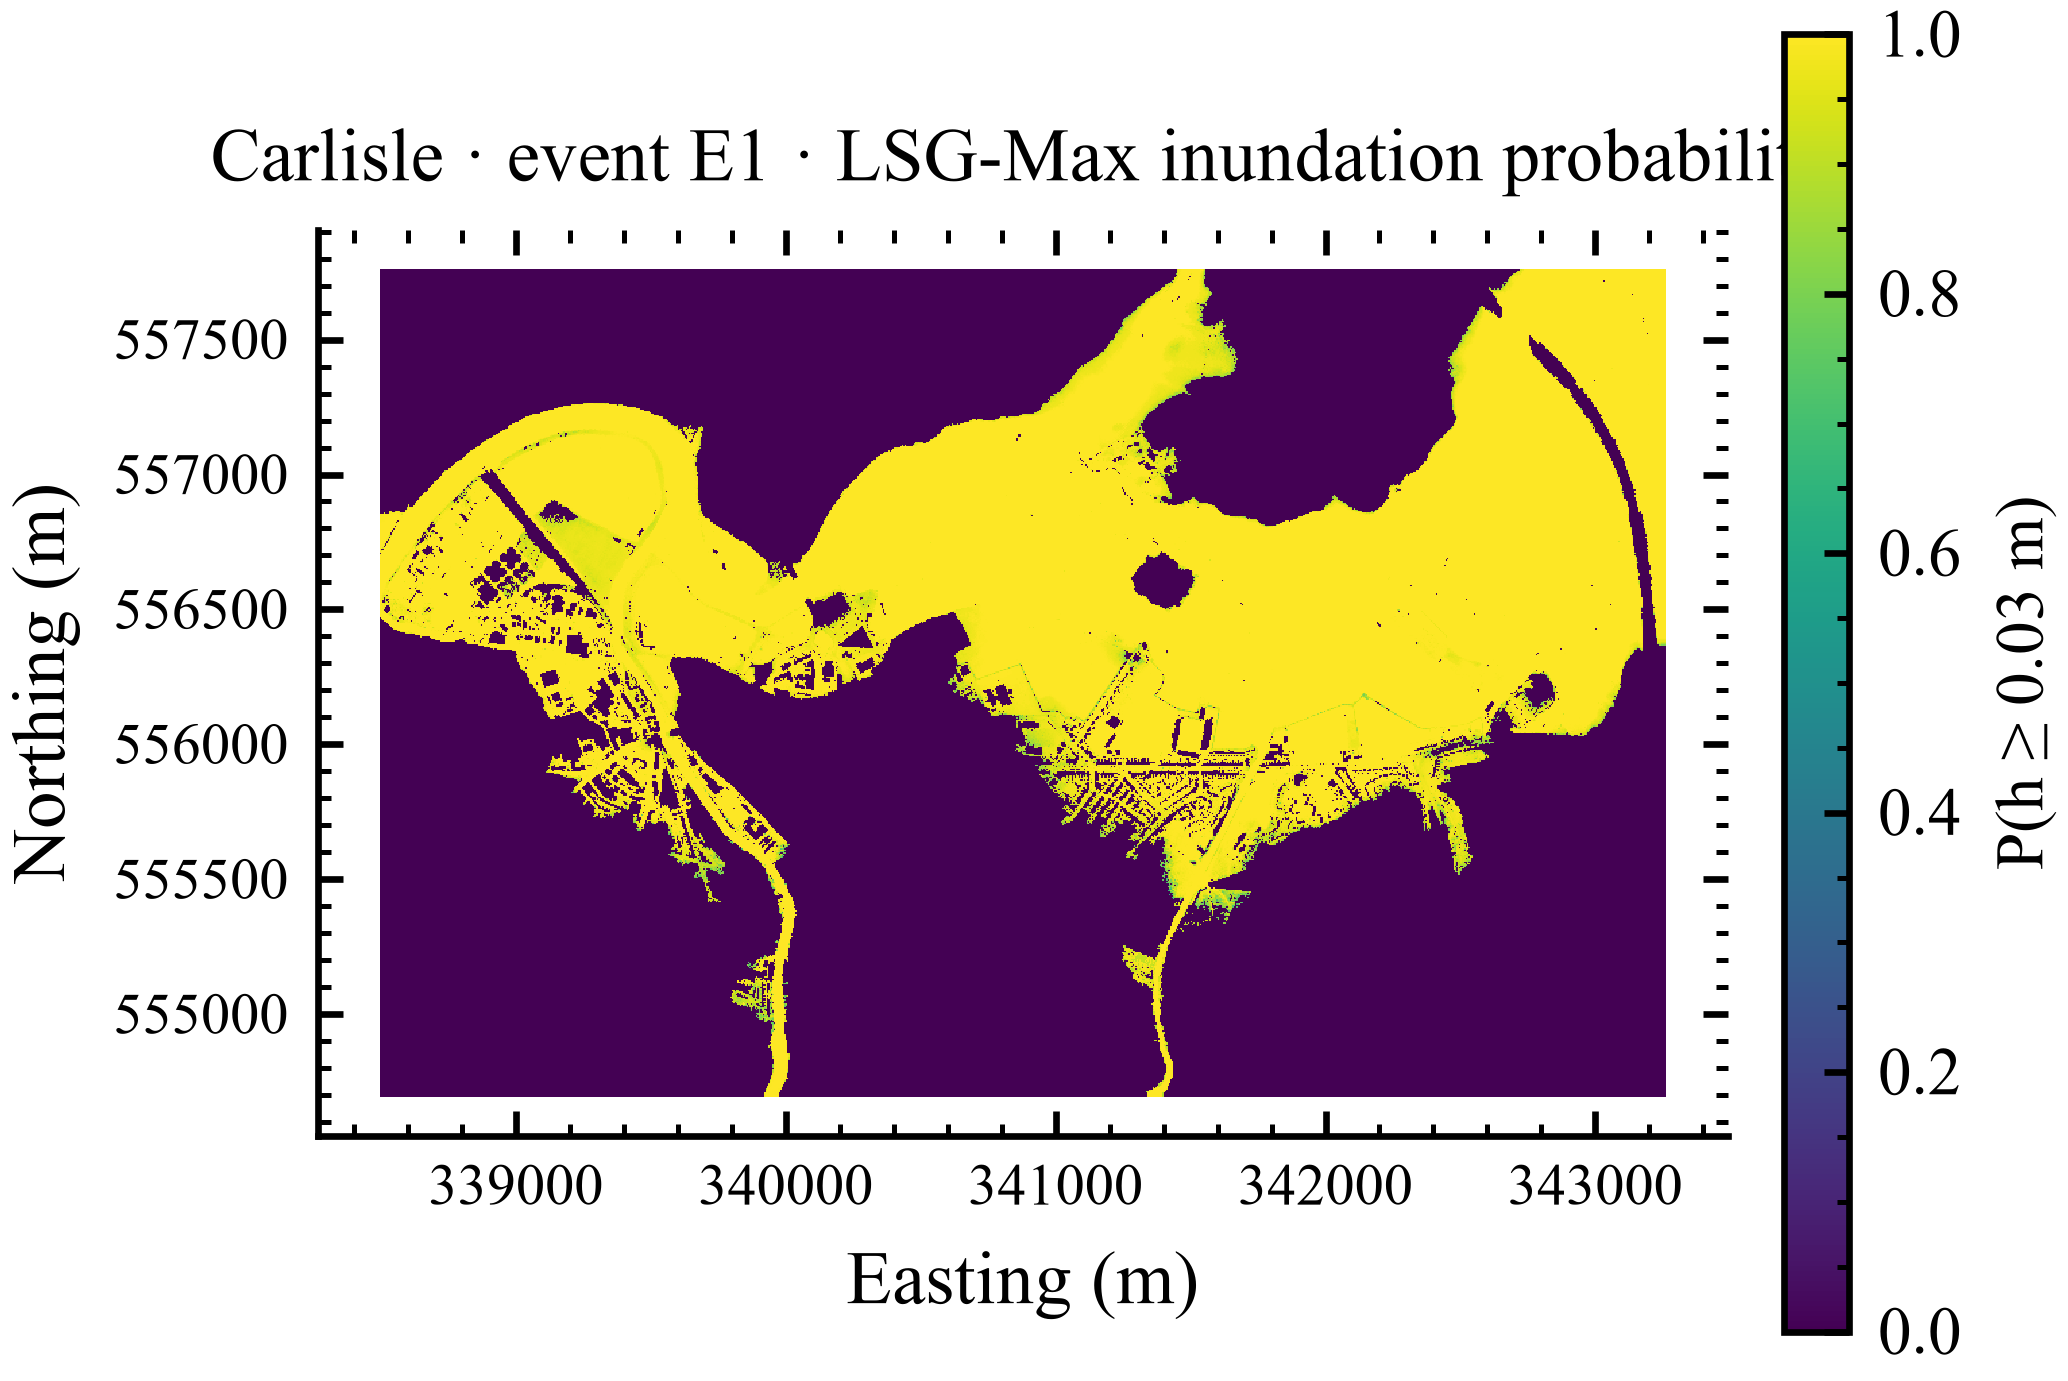
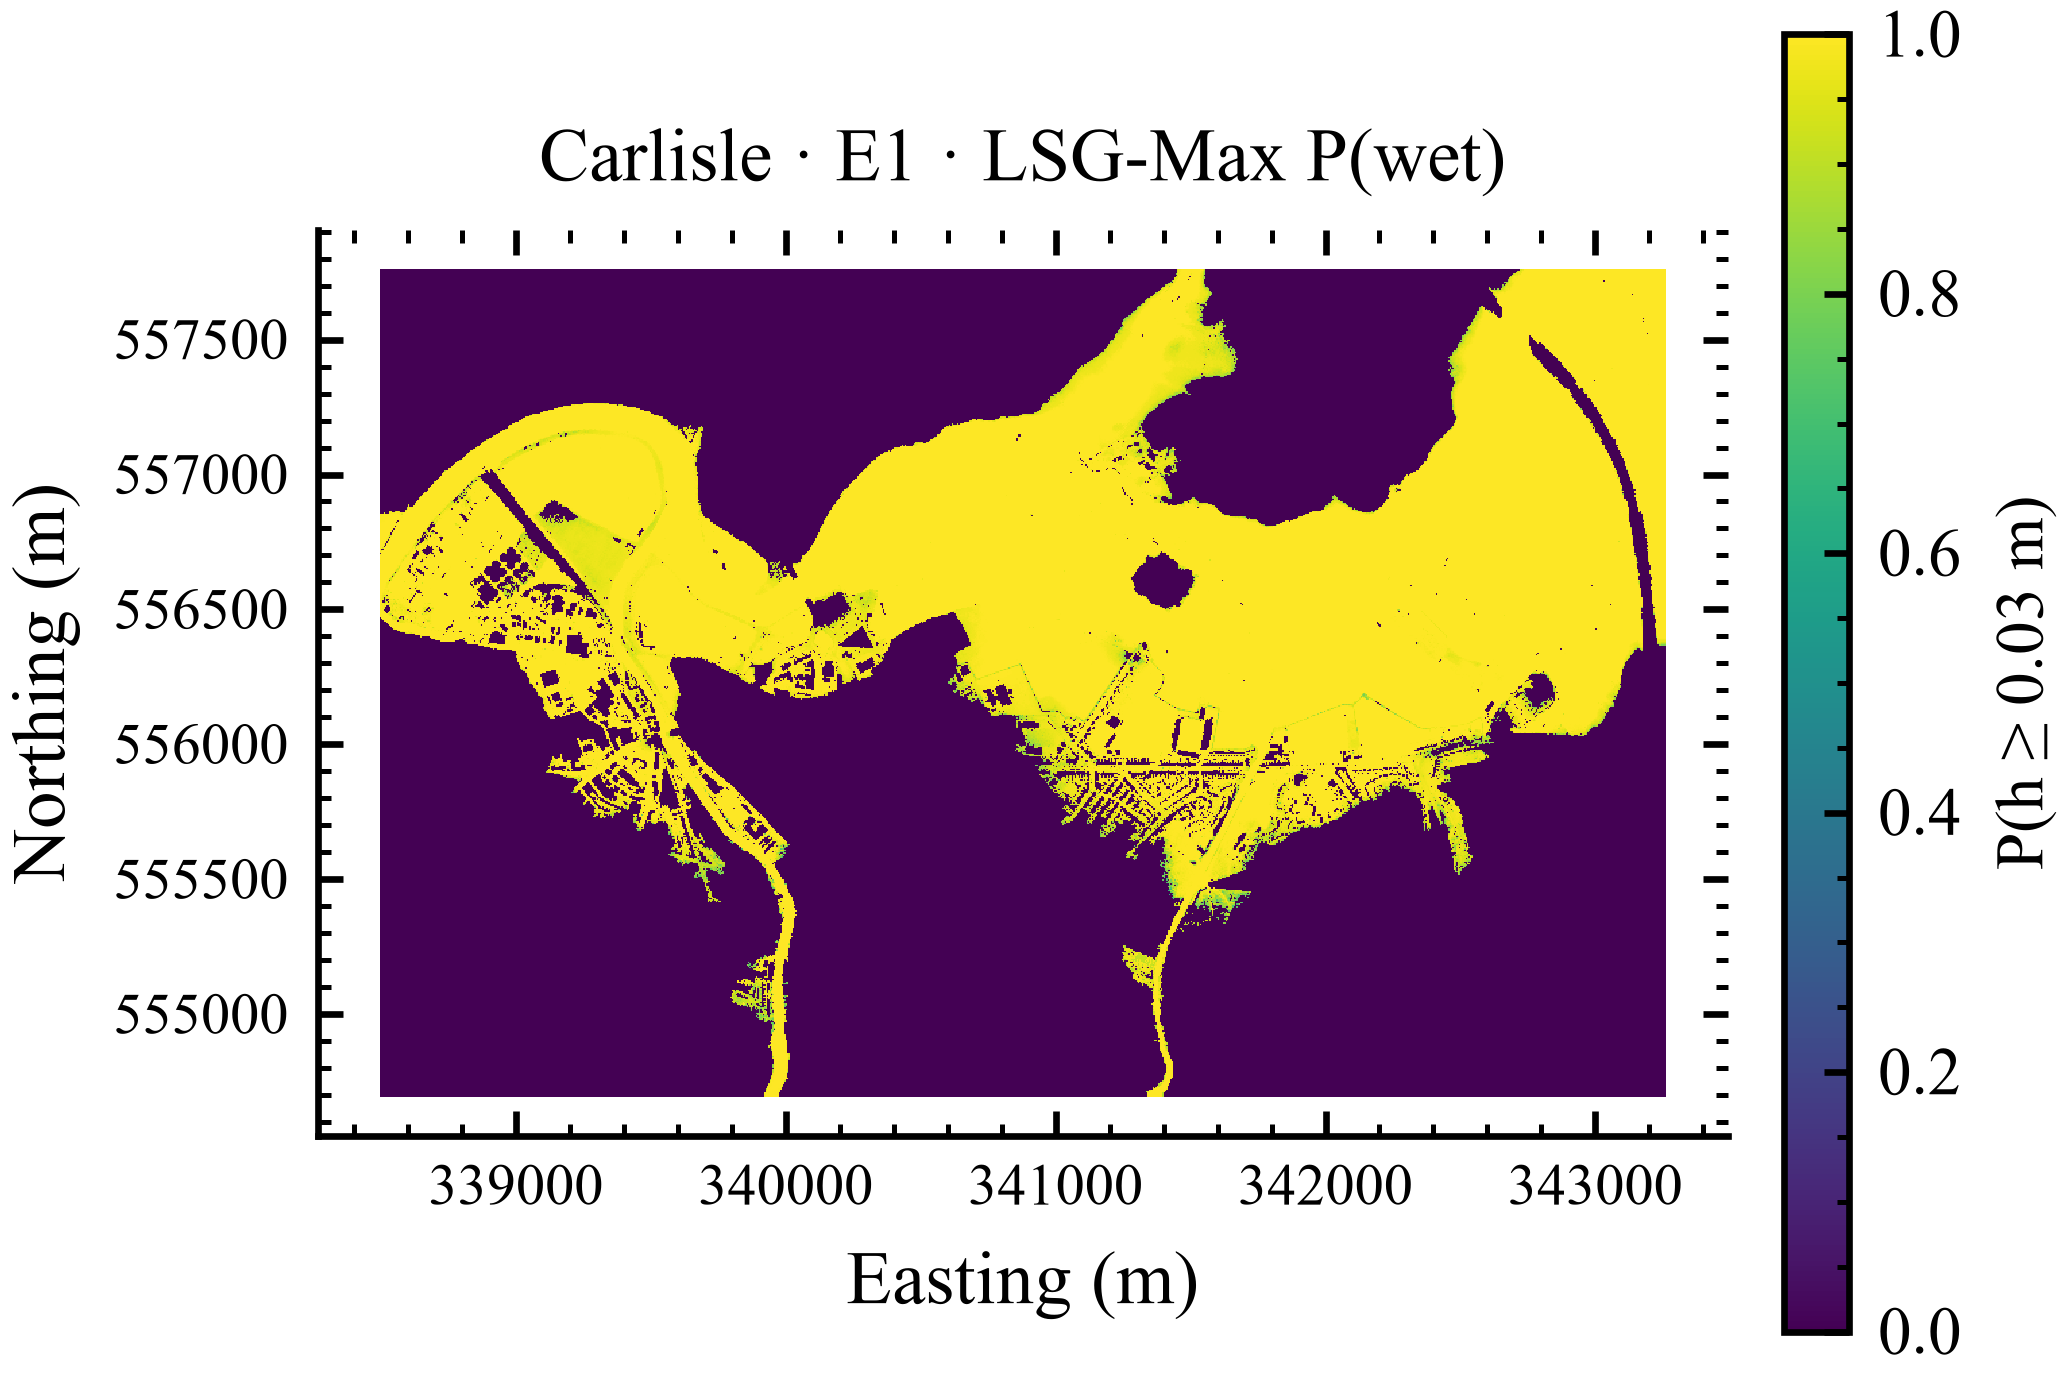
Apply ChatGPT visual-review fixes (Round F2-GPT)
Fix CSI truncated-baseline bar charts (Fig 5/7/9 -> full 0-1 scale + value labels), shorten Fig 4 titles, label Fig 8c as Carlisle, add independent-y-axis note to Fig 6 caption, fix Fig 1 axes wording, and align audit-pack Fig 6 rounding with Table 3.

Changed region(s): [[0.4023, 0.0934, 0.8665, 0.1557], [0.2476, 0.0934, 0.3714, 0.1557], [0.0928, 0.0934, 0.2166, 0.1557]]

diff --git a/scripts/make_figures.py b/scripts/make_figures.py
@@ -173,7 +173,7 @@ def fig_cross_case(out_dir: Path, skips: list[str]) -> list[Path]:
     fig, axes = plt.subplots(1, 2, figsize=figsize_double(3.0))
 
     for ax, metric, ylab, ylim in (
-        (axes[0], csi, "CSI (−)", (0.7, 1.02)),
+        (axes[0], csi, "CSI (−)", (0, 1.02)),
         (axes[1], rmse, "RMSE (m)", None),
     ):
         for i, v in enumerate(variants):
@@ -189,6 +189,8 @@ def fig_cross_case(out_dir: Path, skips: list[str]) -> list[Path]:
             for xi, val in zip(x + (i - 1) * width, vals):
                 if not np.isfinite(val):
                     ax.text(xi, ax.get_ylim()[0] if ylim is None else ylim[0] + 0.01, "—", ha="center", fontsize=7)
+                else:
+                    ax.text(xi, val + 0.015, f"{val:.3f}", ha="center", va="bottom", fontsize=6)
         ax.set_xticks(x, case_labels)
         ax.set_ylabel(ylab)
         if ylim is not None:
@@ -328,7 +330,7 @@ def fig_global_vs_hlsg(out_dir: Path, skips: list[str]) -> list[Path]:
     }
 
     for ax, metric_idx, ylab, ylim in (
-        (axes[0], 2, "CSI (−)", (0.9, 1.01)),
+        (axes[0], 2, "CSI (−)", (0, 1.01)),
         (axes[1], 3, "RMSE (m)", None),
     ):
         x = np.arange(len(cases), dtype=float)
@@ -355,6 +357,8 @@ def fig_global_vs_hlsg(out_dir: Path, skips: list[str]) -> list[Path]:
             for xi, val, ok in zip(x + (i - 1) * width, vals_a, finite_mask):
                 if not ok:
                     ax.plot(xi, 0.0, marker="x", color="0.5", markersize=5)
+                else:
+                    ax.text(xi, val + 0.012, f"{val:.3f}", ha="center", va="bottom", fontsize=6)
         ax.set_xticks(x, cases)
         ax.set_ylabel(ylab)
         if ylim is not None:
@@ -528,7 +532,7 @@ def fig_uq_calibration(out_dir: Path, skips: list[str]) -> list[Path]:
     ax.set_ylabel("Empirical coverage (−)")
     ax.set_ylim(0.8, 1.02)
     ax.legend(loc="lower right", fontsize=7)
-    ax.set_title("Coverage")
+    ax.set_title("Carlisle LSG-Max coverage")
     add_panel_label(ax, "(c)")
 
     # (d) CRPS before/after + other cases after-only
@@ -929,7 +933,7 @@ def fig_pwet_maps(out_dir: Path, skips: list[str]) -> list[Path]:
         )
         cbar = fig.colorbar(sc, ax=ax, fraction=0.046, pad=0.04)
         cbar.set_label(f"P(h ≥ {DEPTH_TAU_M:g} m)", fontsize=8)
-        ax.set_title(f"{case} · event {b['eid']} · LSG-Max inundation probability", fontsize=9)
+        ax.set_title(f"{case} · {b['eid']} · LSG-Max P(wet)", fontsize=9)
         written.extend(save_pub(fig, out_dir / f"{stem}_{b['eid']}"))
         plt.close(fig)
     return written
@@ -1032,14 +1036,16 @@ def fig_zoning_sensitivity(out_dir: Path, skips: list[str]) -> list[Path]:
     x = np.arange(len(labels), dtype=float)
     for xi, c, v in zip(x, colors, csi_vals):
         axes[0].bar(xi, v, width=0.55, color=c)
+        axes[0].text(xi, v + 0.012, f"{v:.3f}", ha="center", va="bottom", fontsize=6)
     axes[0].set_xticks(x, labels, rotation=15)
     axes[0].set_ylabel("CSI (−)")
-    axes[0].set_ylim(0.9, 1.01)
+    axes[0].set_ylim(0, 1.01)
     axes[0].set_title("Chowilla LSG-Max CSI")
     add_panel_label(axes[0], "(a)")
 
     for xi, c, v in zip(x, colors, rmse_vals):
         axes[1].bar(xi, v, width=0.55, color=c)
+        axes[1].text(xi, v + 0.006, f"{v:.3f}", ha="center", va="bottom", fontsize=6)
     axes[1].set_xticks(x, labels, rotation=15)
     axes[1].set_ylabel("RMSE (m)")
     axes[1].set_title("Chowilla LSG-Max RMSE")

diff --git a/docs/paper/_build_html.py b/docs/paper/_build_html.py
@@ -104,7 +104,9 @@ FIGURES = [
         "fig06_error_budget_o1o4.svg",
         "Figure 6. O1–O4 depth RMSE (m) for the Group 1 train and test splits, scored on the "
         "training wet domain. Panels: (a) Carlisle LSG-Max H-LSG, (b) Carlisle LSG-TS H-LSG, "
-        "(c) Chowilla LSG-Max H-LSG, (d) Burnett LSG-Max H-LSG.",
+        "(c) Chowilla LSG-Max H-LSG, (d) Burnett LSG-Max H-LSG. Each panel uses an independent "
+        "y-axis limit so that the small O1/O2 bars remain visible alongside the larger O3 values; "
+        "bars should not be compared across panels by height.",
     ),
     (
         "fig7",

diff --git a/docs/paper/chatgpt_review_rounds/roundF2gpt_visual_review.md b/docs/paper/chatgpt_review_rounds/roundF2gpt_visual_review.md
@@ -1,0 +1,104 @@
+# Round F2-GPT — ChatGPT 真视觉图-码双线审核 + 落地修复
+
+> 日期：2026-08-19（UTC+8）
+> 方式：GitHub 仓库托管图片 + ChatGPT 网页检索看图（首次真正视觉审图）
+> 仓库：https://github.com/Coucou2016/20260522-LSG-WRR
+> 审核包：https://raw.githubusercontent.com/Coucou2016/20260522-LSG-WRR/main/docs/paper/chatgpt_review_rounds/figure_code_audit_pack.md
+
+---
+
+## 一、ChatGPT 总体结论
+
+ChatGPT 实际打开了 15 张 PNG 图面 + 完整 `make_figures.py` + `manuscript.md`，做了真视觉审图。结论：
+
+> **没有 P0 级问题**（无结果画反、单位错、阈值错、索引错）。代码正负号、事件索引、
+> τ=0.03 m、hit/miss/FA 分类、Fig 5/7/9 数据源总体正确。
+> 主要风险是**视觉编码会让读者得出比正文更强或不同的第一印象**，尤其 Chowilla
+> scoring-domain、独立色标、CSI 截断柱状图。
+
+---
+
+## 二、ChatGPT 逐图发现（15 面板）
+
+| 图 | 发现 | 严重度 |
+|---|---|---|
+| Fig 1 | "common easting and northing axes" 会被误解为 shared limits（实际是 equal-aspect） | P3 |
+| Fig 2a Carlisle | 图例在 panel (a) 右上角覆盖真实淹没场 | P2 |
+| Fig 2b Chowilla | 图上无 training wet-domain 边界，读者看不到正文关键解释（miss 集中在训练湿域外） | P1 |
+| Fig 2c Burnett | 长窄 domain 使标题拥挤；图例覆盖上游 floodplain | P2 |
+| Fig 3a Carlisle | 通过 | — |
+| Fig 3b Chowilla | 独立色标使 ±1 m vs ±10–11 m 尺度差异被掩盖（第一眼显得误差相近） | P1 |
+| Fig 3c Burnett | 同类独立色标解释问题 | P3 |
+| Fig 4a Carlisle | 标题被截断 "LSG-Max inundation probabilit..." | P2 |
+| Fig 4b Chowilla | 应强化 scoring-domain caveat（同步叠 wet-domain boundary） | P2 |
+| Fig 4c Burnett | 通过；标题可统一缩短 | — |
+| Fig 5 | **CSI 从 0.70 起（截断基线）放大 0.925 vs 0.976 的小差异**；LSG-TS 缺失 "—" 易误读 | P1 |
+| Fig 6 | 四 panel 独立 y 轴但 caption 未醒目标明；审计包 O2/O4 舍入与 manuscript 不一致 | P1+P2 |
+| Fig 7 | **CSI 从 0.90 起，截断基线放大 0–0.0012 的细微差异** | P1 |
+| Fig 8 | panel (c) 未标明只画 Carlisle；panel (b) legend 覆盖空间结构 | P2 |
+| Fig 9 | **CSI 固定 0.90–1.01，实际差异仅 0.001–0.003，视觉放大** | P1 |
+
+**ChatGPT 强调的 6 项优先修复：**
+1. Fig 2b/3b/4b Chowilla training wet-domain 边界或 caption caveat
+2. Fig 3 caption 明确独立色标不可横向比较（显示各 panel 99th-percentile limit）
+3. Fig 5/7/9 CSI 不要截断基线柱状图（改 0–1 全尺度 + 数值标签）
+4. Fig 6 保留 independent y ranges 但 caption 明说
+5. 统一 Fig 6 Carlisle Max 舍入（0.053/0.095 → 0.052/0.094，与 manuscript Table 3 一致）
+6. Fig 4a 缩短标题；Fig 8c 标明 Carlisle coverage
+
+---
+
+## 三、本轮落地修复
+
+### 代码（`scripts/make_figures.py`）
+| 修改 | 内容 |
+|---|---|
+| `fig_cross_case` | CSI ylim (0.7,1.02)→(0,1.02) + 柱顶数值标签 |
+| `fig_global_vs_hlsg` | CSI ylim (0.9,1.01)→(0,1.01) + 柱顶数值标签 |
+| `fig_zoning_sensitivity` | CSI ylim (0.9,1.01)→(0,1.01) + CSI/RMSE 柱顶数值标签 |
+| `fig_pwet_maps` | 标题缩短为 `{case} · {eid} · LSG-Max P(wet)`（修复截断） |
+| `fig_uq_calibration` | panel (c) 标题 "Coverage"→"Carlisle LSG-Max coverage" |
+
+### caption（`docs/paper/_build_html.py`）
+| 修改 | 内容 |
+|---|---|
+| Fig 6 caption | 明说 "Each panel uses an independent y-axis limit … bars should not be compared across panels by height" |
+
+### 正文（`docs/paper/manuscript.md`）
+| 修改 | 内容 |
+|---|---|
+| §4.1 line 149 | "common easting and northing axes" → "equal-aspect easting and northing coordinate axes" |
+
+### 审计包（`figure_code_audit_pack.md`）
+| 修改 | 内容 |
+|---|---|
+| Fig 6 数据表 | Carlisle LSG-Max O2 0.053→0.052、O4 0.095→0.094（与 manuscript Table 3 一致） |
+
+---
+
+## 四、ChatGPT 建议但本轮未做（记录备查）
+
+- **Fig 2b/3b/4b 叠加 training wet-domain boundary 虚线**：需要从 `pred_examples.npz`
+  读 wet_train mask 并在空间图上叠加轮廓，改动较大；caption 已在 Round F1 补了 caveat。
+  若后续需要，可作为独立增强。
+- **Fig 2a/2c 图例移到 figure-level**：较大改动，涉及 `fig_extent_hit_miss` 布局重构。
+- **Fig 3 caption 显示各 panel 99th-percentile limit**：可选，需在 caption 动态注入数值。
+- **Fig 8b legend 移出覆盖区**：小改，但 fringe map 左下角是唯一空白区，暂保留。
+
+---
+
+## 五、与 Round F1（Cursor 独立审图）的对比
+
+Round F1 已发现并修复：fig09 未插入 HTML、Chowilla 外推 caption、fig03 共享色标拉爆、
+fig08d log 轴、fig06 O3 压制、fig04 多余 (a)、fig03 colorbar 标签、fig08d xlabel。
+
+Round F2-GPT（本轮）**新发现**（F1 遗漏）：
+1. **Fig 5/7/9 CSI 截断基线柱状图放大微小差异**（统计呈现的实质问题，F1 未抓住）
+2. Fig 4a 标题截断
+3. Fig 8c 未标明 Carlisle（panel 标题层面）
+4. Fig 6 caption 未明说独立 y 轴
+5. 审计包 Fig 6 舍入笔误（0.053/0.095 vs manuscript 0.052/0.094）
+6. Fig 1 "common axes" 措辞
+
+说明"双线审核"有效：Cursor 独立审图抓视觉失衡（色标/坐标轴），ChatGPT 真视觉抓
+统计呈现（截断基线）+ 措辞 + 舍入一致性，两者互补。

diff --git a/docs/paper/manuscript.md b/docs/paper/manuscript.md
@@ -146,7 +146,7 @@ The primary maximum-surface workflows were run with Python 3.12 using NumPy, Sci
 
 ### 4.1. Baseline Spatial Performance
 
-Figure 1 places the three HF domains on common easting and northing axes. Because a digital elevation model (DEM) raster is not included in the public geometry package used for these plots, the domains are plotted using HF cell centers. The three cases differ substantially in size and geometry, from the compact Carlisle domain to the elongated Burnett river corridor.
+Figure 1 places the three HF domains on equal-aspect easting and northing coordinate axes. Because a digital elevation model (DEM) raster is not included in the public geometry package used for these plots, the domains are plotted using HF cell centers. The three cases differ substantially in size and geometry, from the compact Carlisle domain to the elongated Burnett river corridor.
 
 The extent maps in Figure 2 compare LF and LSG-Max predictions with HF at the 0.03 m threshold. Burnett shows the largest reduction in misses and false alarms after the LSG correction. Carlisle has relatively strong LF extent agreement before upscaling, so the visual change is smaller. Chowilla shows a different pattern: extent disagreement is concentrated outside the training wet-domain mask, consistent with the large difference between wet-domain and all-cell scores reported in Section 4.5.
 

diff --git a/docs/paper/chatgpt_review_rounds/figure_code_audit_pack.md b/docs/paper/chatgpt_review_rounds/figure_code_audit_pack.md
@@ -187,7 +187,7 @@ for ax, (case, variant, rows), tag in zip(...):
 
 | Case / variant | O1 | O2 | O3 | O4 |
 |---|---|---|---|---|
-| Carlisle LSG-Max | 0.048 | 0.053 | 0.068 | 0.095 |
+| Carlisle LSG-Max | 0.048 | 0.052 | 0.068 | 0.094 |
 | Carlisle LSG-TS | 0.018 | 0.033 | 0.240 | 0.102 |
 | Chowilla LSG-Max | 0.021 | 0.034 | 0.701 | 0.093 |
 | Burnett LSG-Max | 0.074 | 0.083 | 0.668 | 0.387 |
